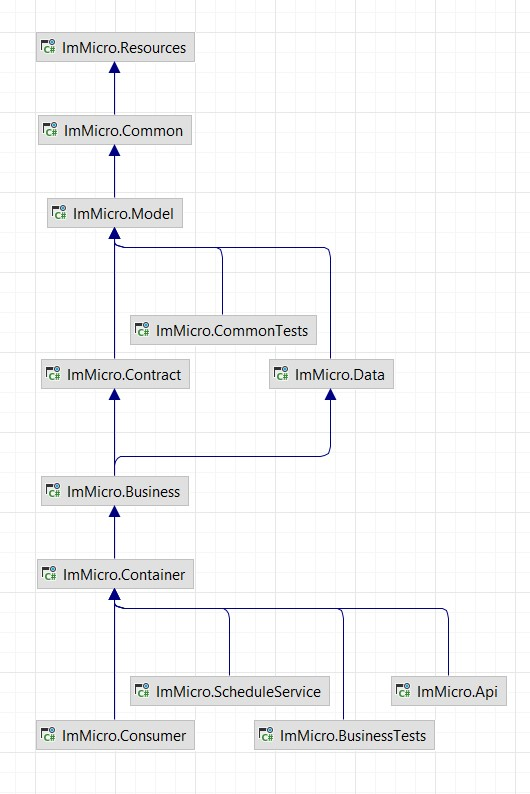
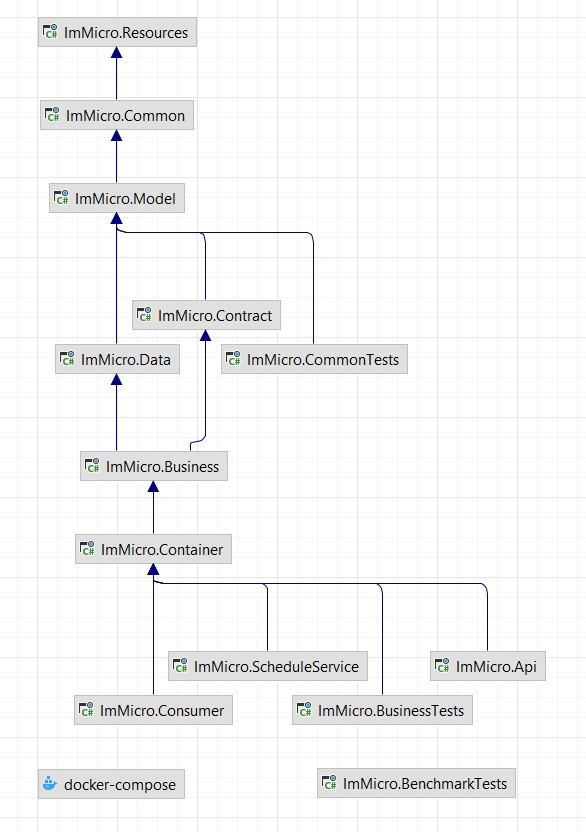
Benchmark test project and sample code added.

Changed region(s): [[0.0604, 0.0, 0.966, 0.9673], [0.6038, 0.5441, 0.634, 0.5743], [0.5132, 0.6952, 0.5434, 0.7254]]

diff --git a/ImMicro.BenchmarkTests/Program.cs b/ImMicro.BenchmarkTests/Program.cs
@@ -1,0 +1,42 @@
+using System.Text;
+using BenchmarkDotNet.Attributes;
+using BenchmarkDotNet.Running;
+
+public class Program
+{
+    public static void Main(string[] args)
+    {
+        //INFO: Documentation > https://benchmarkdotnet.org/articles/overview.html
+        var summary = BenchmarkRunner.Run(typeof(Program).Assembly);
+    }
+    
+    [MemoryDiagnoser]
+    public class StringTest
+    {
+        [Benchmark]
+        public string StringConcat()
+        {
+            var text = string.Empty;
+
+            for (int i = 0; i < 1000; i++)
+            {
+                text += i;
+            }
+
+            return text;
+        }
+
+        [Benchmark]
+        public string StringBuilder()
+        {
+            var sb = new StringBuilder();
+
+            for (int i = 0; i < 1000; i++)
+            {
+                sb.Append(i);
+            }
+
+            return sb.ToString();
+        }
+    }
+}

diff --git a/README.md b/README.md
@@ -21,6 +21,7 @@ This is a simple/reusable micro/macro service template/playgorund project.
 - **Resources:** Language resx files project   
 - **Messaging/Consumer:** Message service(RabbitMQ) implementation project
 - **ScheduleService:** Schedule tasks project   
+- **Tests:** Unit and Benchmark test projects   
 ![alt tag](Files/solutiondiagram.jpg)  
 
 #### Technologies
@@ -41,6 +42,7 @@ This is a simple/reusable micro/macro service template/playgorund project.
 * RedLock  
 * AutoMapper  
 * Docker
+* BenchmarkDotNet
 * HelpersToolbox (https://github.com/turhany/HelpersToolbox)
 * Filtery (https://github.com/turhany/Filtery)
 * Audity (https://github.com/turhany/Audity)
